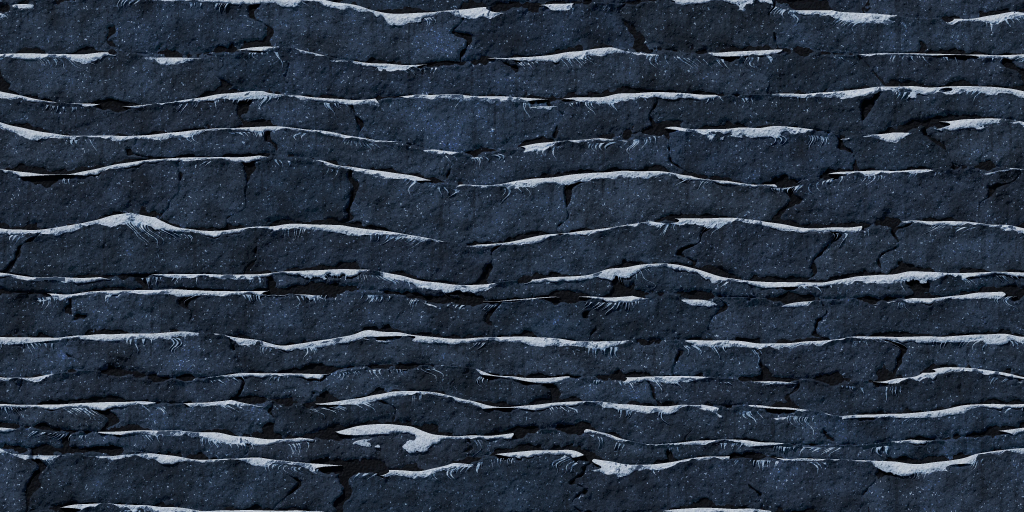
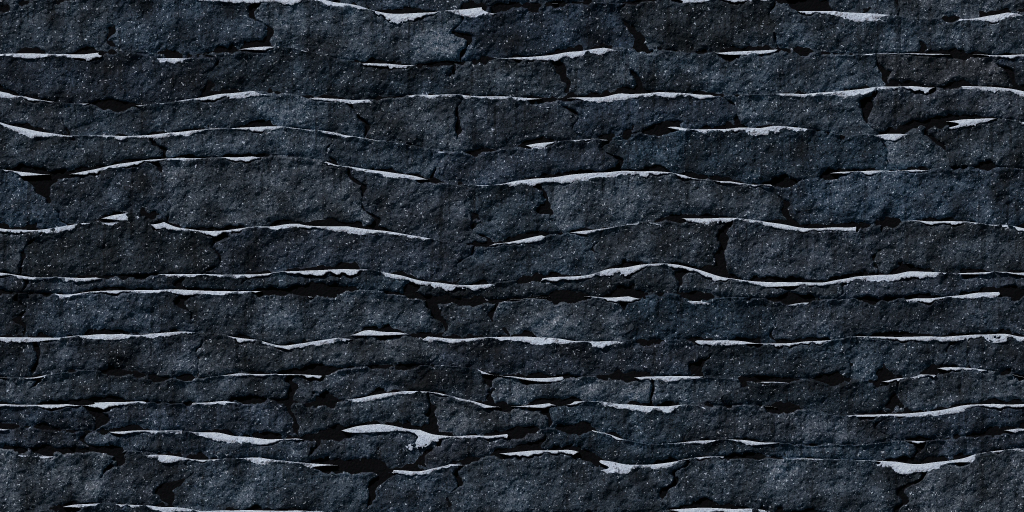
Версия 2026.10.26-99: порода Арктики заново — шершавый гранит с блёстками, сплошной снег на уступах с рваным краем, оттенок камня по эталону
Claude-Session: https://claude.ai/code/session_01JvXrYdG1XCH4i3GESsQzbh

diff --git a/index.html b/index.html
@@ -114,7 +114,7 @@
         </div>
       </div>
     </div>
-    <footer class="menu-footer"><span id="game-version">ВЕРСИЯ 2026.10.26-98</span><span>ПЛАНИРУЙ ХОД. МЕНЯЙ ЛАНДШАФТ.</span><span class="footer-status"><i></i> ГОТОВ К БОЮ</span></footer>
+    <footer class="menu-footer"><span id="game-version">ВЕРСИЯ 2026.10.26-99</span><span>ПЛАНИРУЙ ХОД. МЕНЯЙ ЛАНДШАФТ.</span><span class="footer-status"><i></i> ГОТОВ К БОЮ</span></footer>
   </section>
 
   <!-- Онлайн -->

diff --git a/dev/blender/make_masonry.py b/dev/blender/make_masonry.py
@@ -61,7 +61,7 @@ STYLES = {
                    slant=(8, 32), ledge=3.4, mottk=0.2, frostT=1.9,   # v80 (r32: в эталоне 90-й процентиль яркости 111, у нас 54): инея больше
                    stone=[(58, 69, 85), (53, 62, 78), (65, 76, 92), (47, 57, 71), (57, 67, 83)],   # r27: холоднее (−8 % красного)
                    mortar=(13, 15, 20), lichen=0.0, moss=0.0, wob=2.8, rough=2.0, warp=(6.5, 5.5),
-                   snow=dict(th=(2.5, 6.0), col=(232, 238, 250), gaps=-0.3, icicles=0, granular=True),   # v93 (замер r35: белого вдвое больше эталона, снег — гладкие «простыни», под ними штрихи-«гребёнки»): рыхлая изморозь по верху глыб; сосульки в текстуре выглядели царапинами — их рисует сама игра под уступами
+                   snow=dict(th=(2.5, 6.0), col=(214, 222, 240), gaps=-0.3, icicles=0, granular=True),   # v93 (замер r35: белого вдвое больше эталона, снег — гладкие «простыни», под ними штрихи-«гребёнки»): рыхлая изморозь по верху глыб; сосульки в текстуре выглядели царапинами — их рисует сама игра под уступами
                    hgrain=0.45, cgrain=0.9, speck=0.015,   # v93: шершавый гранит с блёстками (эталон — крупнозернистые глыбы)
                    light=dict(col=(0.82, 0.88, 1.0), elev=32, energy=4.2)),
     # вулкан (критик r26–27: нет крупных плит, лава — пятна): базальтовые плиты 30–70 × 90–260 ед., в трети швов —
@@ -191,8 +191,9 @@ def field(st):
             dk = (Yw >= th) & (Yw < th + 14) & (drip[rows] > 0.9); Cr = np.where(dk[..., None], Cr * 0.82, Cr)
             q = np.clip(Yw / np.maximum(th, 0.5), 0, 1)
             snow = (Yw < th) & (snowg[rows] > SN['gaps'])
-            if SN.get('granular'):   # v93: рыхлая изморозь — у верхней кромки сплошная, ниже рассыпается крупинками (эталон), а не ровная «простыня»
-                snow = snow & (sgrain[rows] > -1.3 + 2.4 * q ** 1.4)
+            if SN.get('granular'):   # v96: верхние 55 % полосы сплошные, нижний край рваный — комьями и крупинками (v93 рассыпал всю полосу: «леопардовые» дырки)
+                edge = 0.6 * snowv[rows] + 0.4 * sgrain[rows]
+                snow = snow & ((q < 0.55) | (edge > -1.6 + 3.2 * ((q - 0.55) / 0.45) ** 1.2))
             scol = np.array(SN['col'], np.float32) * (1 - 0.2 * q ** 1.5)[..., None] * (1 + sgrain[rows] * 0.035)[..., None]
             scol = scol * np.array([1 - 0.06 * 0, 1, 1], np.float32) - np.stack([q * 14, q * 8, q * 0], -1)   # к низу полосы — голубее
             Cr = np.where(snow[..., None], scol, Cr)

diff --git a/dev/tools/rock_tint.py b/dev/tools/rock_tint.py
@@ -1,0 +1,30 @@
+"""Оттенок камня в родной текстуре без снега (Арктика: канальный gain темы красил бы и снег в желтоватый).
+
+python dev/tools/rock_tint.py <рендер ×4.png> <выход.png> --tint 1,0.82,0.71 [--snowL 140] [--snowSat 0.25]
+
+Снег — светлые малонасыщенные пиксели (яркость выше snowL, насыщенность ниже snowSat), переход мягкий (±25 по яркости);
+всё остальное умножается на tint. Дальше — dev/make_native.py <выход.png> <имя> --no-match --lossy.
+"""
+import argparse
+
+import numpy as np
+from PIL import Image
+
+Image.MAX_IMAGE_PIXELS = None
+
+
+def main():
+    ap = argparse.ArgumentParser(); ap.add_argument('src'); ap.add_argument('out')
+    ap.add_argument('--tint', default='1,0.82,0.71'); ap.add_argument('--snowL', type=float, default=140); ap.add_argument('--snowSat', type=float, default=0.25)
+    a = ap.parse_args()
+    img = np.asarray(Image.open(a.src).convert('RGB')).astype(np.float32)
+    L = img.mean(2); mx = img.max(2); mn = img.min(2); sat = (mx - mn) / np.maximum(mx, 1)
+    snow = np.clip((L - (a.snowL - 25)) / 50, 0, 1) * np.clip((a.snowSat + 0.08 - sat) / 0.16, 0, 1)
+    tint = np.array([float(v) for v in a.tint.split(',')], np.float32)
+    k = snow[..., None] + (1 - snow[..., None]) * tint
+    Image.fromarray(np.clip(np.rint(img * k), 0, 255).astype(np.uint8)).save(a.out)
+    print('rock_tint snow share', round(float((snow > 0.5).mean()), 3), 'wrote', a.out)
+
+
+if __name__ == '__main__':
+    main()
